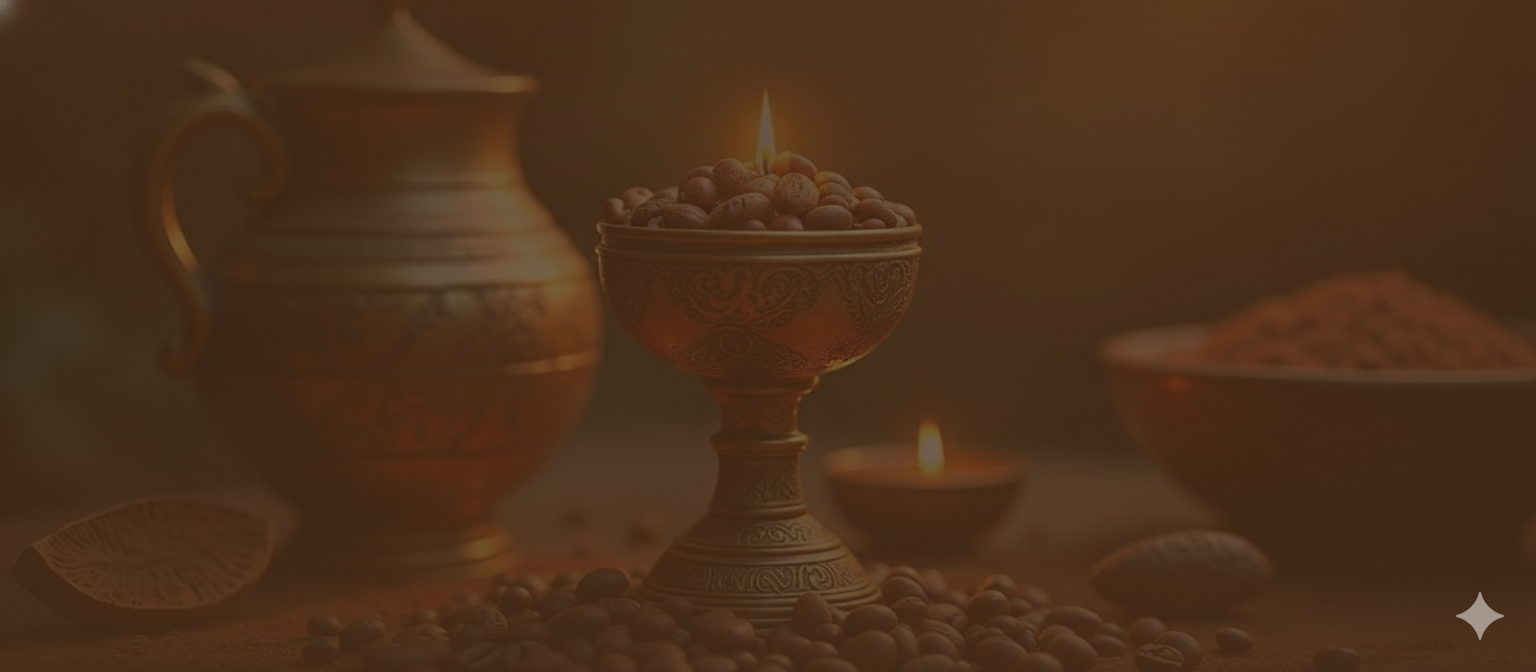
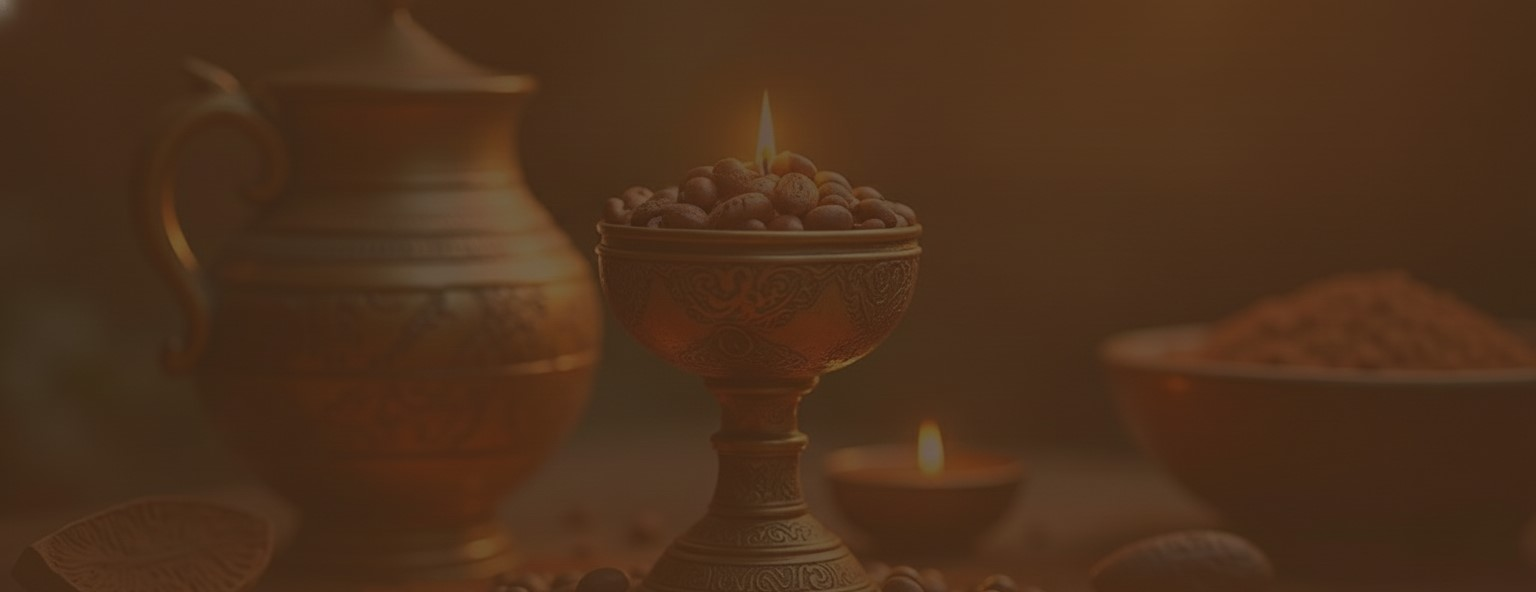
Fotos com o dimensionamento correto - 04/01/26
Novas fotos adicionadas nas fotos dos produtos com o redimensionamento correto. Nova imagem adicionada no Hero

diff --git a/infrastructure/data/products.data.ts b/infrastructure/data/products.data.ts
@@ -6,16 +6,16 @@ export const products: Product[] = [
     name: 'ORÁCULO DO CACAU',
     subtitle: 'Portal de Sabedoria Ancestral',
     description:
-      'O único oráculo que conecta você à medicina sagrada do cacao. Com 44 cartas para autoconhecimento e transformação espiritual.',
+      'O único oráculo que conecta você à medicina sagrada do cacau. Com 44 cartas para autoconhecimento e transformação espiritual.',
     features: [
-      '44 cartas ilustradas com simbologia do cacao sagrado',
+      '44 cartas ilustradas com simbologia do cacau sagrado',
       'Guia completo de interpretação e spreads',
-      'Conexão com a energia ancestral do cacao',
+      'Conexão com a energia ancestral do cacau',
       'Embalagem premium com pano para leitura',
       'Perfeito para rituais e meditações diárias',
     ],
     price: 197.0,
-    image: '/images/oraculo-cacau.png',
+    image: '/images/Gemini_Generated_Image_7ug0rt7ug0rt7ug0.png',
   },
   {
     id: '2',

diff --git a/app/globals.css b/app/globals.css
@@ -209,8 +209,7 @@ body {
   display: flex;
   align-items: center;
   justify-content: center;
-  background: linear-gradient(135deg, rgba(58, 34, 19, 0.9) 0%, rgba(74, 42, 22, 0.9) 60%, rgba(122, 75, 38, 0.85) 100%),
-    url('/images/hero-cacau.jpg') center/cover no-repeat;
+  background: url('/images/hero-cacau.jpg') center/cover no-repeat;
   position: relative;
   padding: var(--spacing-xl) 0;
   text-align: center;
@@ -221,8 +220,9 @@ body {
   content: '';
   position: absolute;
   inset: 0;
-  background: linear-gradient(180deg, rgba(0, 0, 0, 0.35) 0%, rgba(0, 0, 0, 0.45) 40%, rgba(0, 0, 0, 0.55) 100%);
+  background: radial-gradient(ellipse at center, rgba(58, 34, 19, 0.4) 0%, rgba(0, 0, 0, 0.7) 100%);
   pointer-events: none;
+  z-index: 1;
 }
 
 .hero-content {
